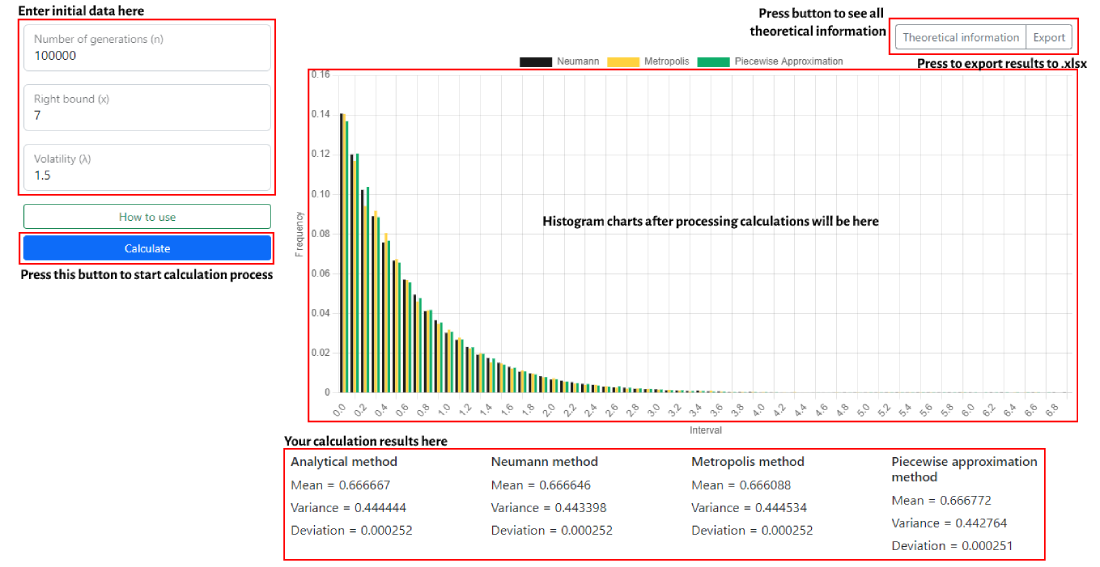
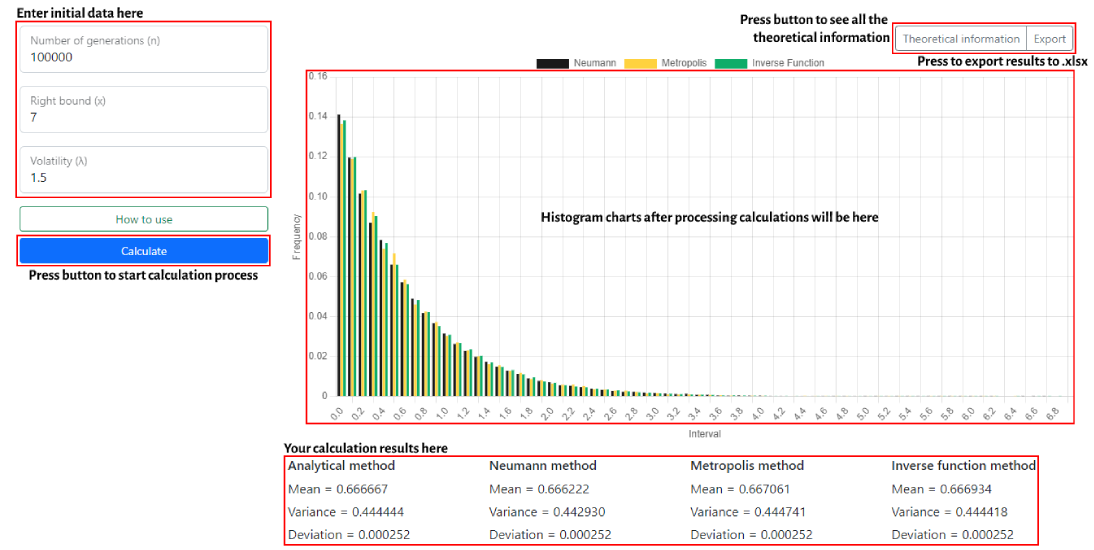
Implement inverse function method

Changed region(s): [[0.0, 0.0, 0.9945, 1.0], [0.4973, 0.3709, 0.808, 0.4018]]

diff --git a/app/controllers/distribution_controller.rb b/app/controllers/distribution_controller.rb
@@ -37,26 +37,25 @@ class DistributionController < ApplicationController
       result
     }
 
-    piecewise_approximation_sum = Calculation.piecewise_find_max(calculate, x_limit)
-    calculate_piecewise= ->() {
-      Calculation.piecewise_approximation(calculate, x_limit, piecewise_approximation_sum)
+    calculate_inverse= ->() {
+      Calculation.inverse(lambda)
     }
 
     neumann_data = generator.init(calculate_neumann)
     metropolis_data = generator.init(calculate_metropolis)
-    piecewise_approximation_data = generator.init(calculate_piecewise)
+    inverse_function_data = generator.init(calculate_inverse)
 
     neumann_mean = Calculation.get_mean(neumann_data['sum'], total_generations)
     metropolis_mean = Calculation.get_mean(metropolis_data['sum'], total_generations)
-    piecewise_approximation_mean = Calculation.get_mean(piecewise_approximation_data['sum'], total_generations)
+    inverse_function_mean = Calculation.get_mean(inverse_function_data['sum'], total_generations)
 
     neumann_variance = Calculation.get_variance(neumann_data['sum'], neumann_data['squares_sum'], total_generations)
     metropolis_variance = Calculation.get_variance(metropolis_data['sum'], metropolis_data['squares_sum'], total_generations)
-    piecewise_variance = Calculation.get_variance(piecewise_approximation_data['sum'], piecewise_approximation_data['squares_sum'], total_generations)
+    inverse_function_variance = Calculation.get_variance(inverse_function_data['sum'], inverse_function_data['squares_sum'], total_generations)
 
     neumann_deviation = Calculation.get_deviation(neumann_data['sum'], neumann_data['squares_sum'], total_generations)
     metropolis_deviation = Calculation.get_deviation(metropolis_data['sum'], metropolis_data['squares_sum'], total_generations)
-    piecewise_deviation = Calculation.get_deviation(piecewise_approximation_data['sum'], piecewise_approximation_data['squares_sum'], total_generations)
+    inverse_function_deviation = Calculation.get_deviation(inverse_function_data['sum'], inverse_function_data['squares_sum'], total_generations)
 
     @results = {
       'n' => n,
@@ -76,13 +75,13 @@ class DistributionController < ApplicationController
       'metropolisVariance' => metropolis_variance,
       'metropolisDeviation' => metropolis_deviation,
 
-      'piecewiseApproximationMean' => piecewise_approximation_mean,
-      'piecewiseApproximationVariance' => piecewise_variance,
-      'piecewiseApproximationDeviation' => piecewise_deviation,
+      'inverseFunctionMean' => inverse_function_mean,
+      'inverseFunctionVariance' => inverse_function_variance,
+      'inverseFunctionDeviation' => inverse_function_deviation,
 
       'neumannData' => neumann_data['frequencies'],
       'metropolisData' => metropolis_data['frequencies'],
-      'piecewiseApproximationData' => piecewise_approximation_data['frequencies'],
+      'inverseFunctionData' => inverse_function_data['frequencies'],
     }
   end
 end

diff --git a/app/helpers/Calculation.rb b/app/helpers/Calculation.rb
@@ -1,6 +1,4 @@
 class Calculation
-  @slices = 100
-
   def self.neumann(func, max, x_limit)
     while true
       x = rand(0.0..1.0) * x_limit
@@ -29,31 +27,9 @@ class Calculation
     prev_x
   end
 
-  def self.piecewise_find_max(func, x_limit)
-    sum = 0.0
-
-    (1..@slices).each do |i|
-      x = i * (1.0 / @slices) * 1.0 * x_limit
-      sum += func.call(x)
-    end
-
-    sum
-  end
-
-  def self.piecewise_approximation(func, x_limit, sum)
-    random = rand
-    x = 0
-    p = 0.0
-
-    (1..@slices).each do |i|
-      x = i * (1.0 / @slices) * 1.0 * x_limit
-      p += func.call(x) / sum
-      break if random < p
-    end
-
-    delta = rand
-
-    x - delta * x_limit / @slices
+  def self.inverse(lambda)
+    gamma = rand(0.0..1.0)
+    -Math.log(1.0 - gamma) / lambda
   end
 
   def self.get_mean(sum, count)
